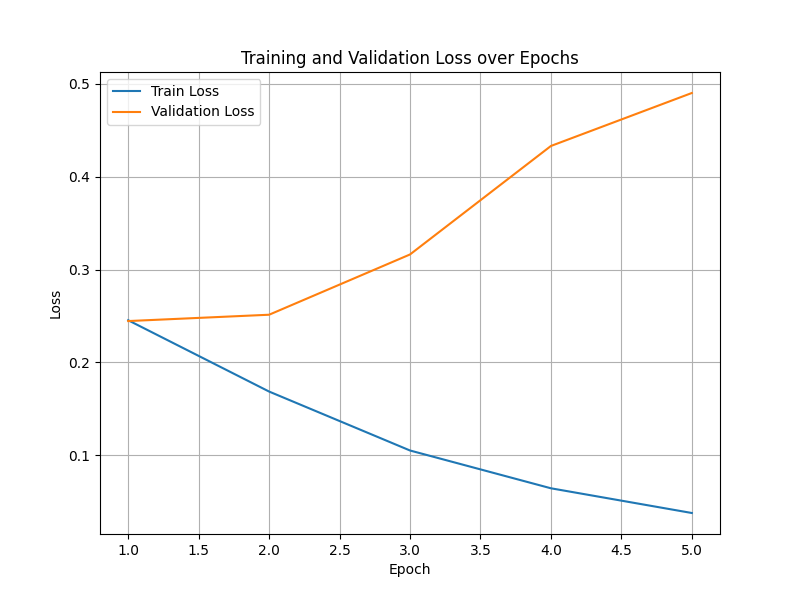
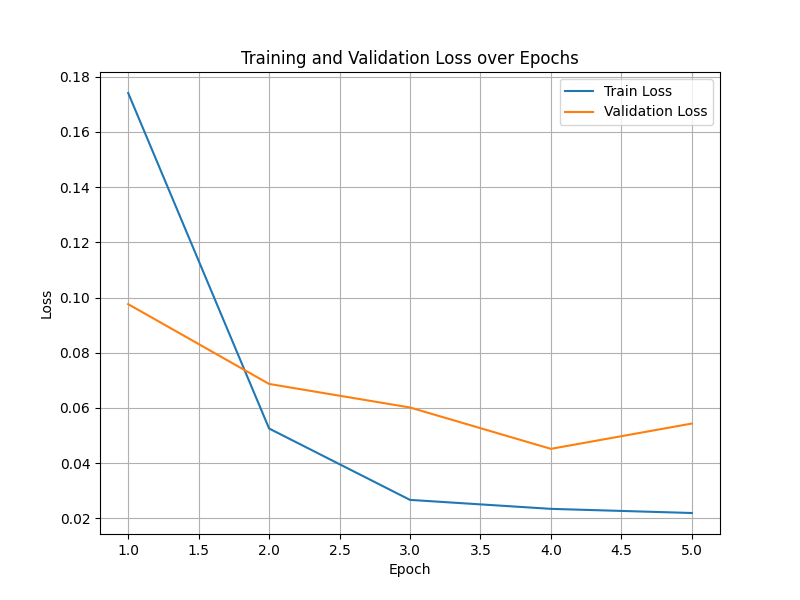
augmented data 5 epochs

diff --git a/Model/train.py b/Model/train.py
@@ -174,7 +174,7 @@ def validate(model, val_loader, criterion, device):
 
 
 if __name__ == "__main__":
-    data = pd.read_csv("../data/MM_USED_fallacy/full_data_processed.csv")
+    data = pd.read_csv("../data/MM_USED_fallacy/aug_data.csv")
 
     # make the texts and labels into lists
     snippets = data["snippet"].tolist()
